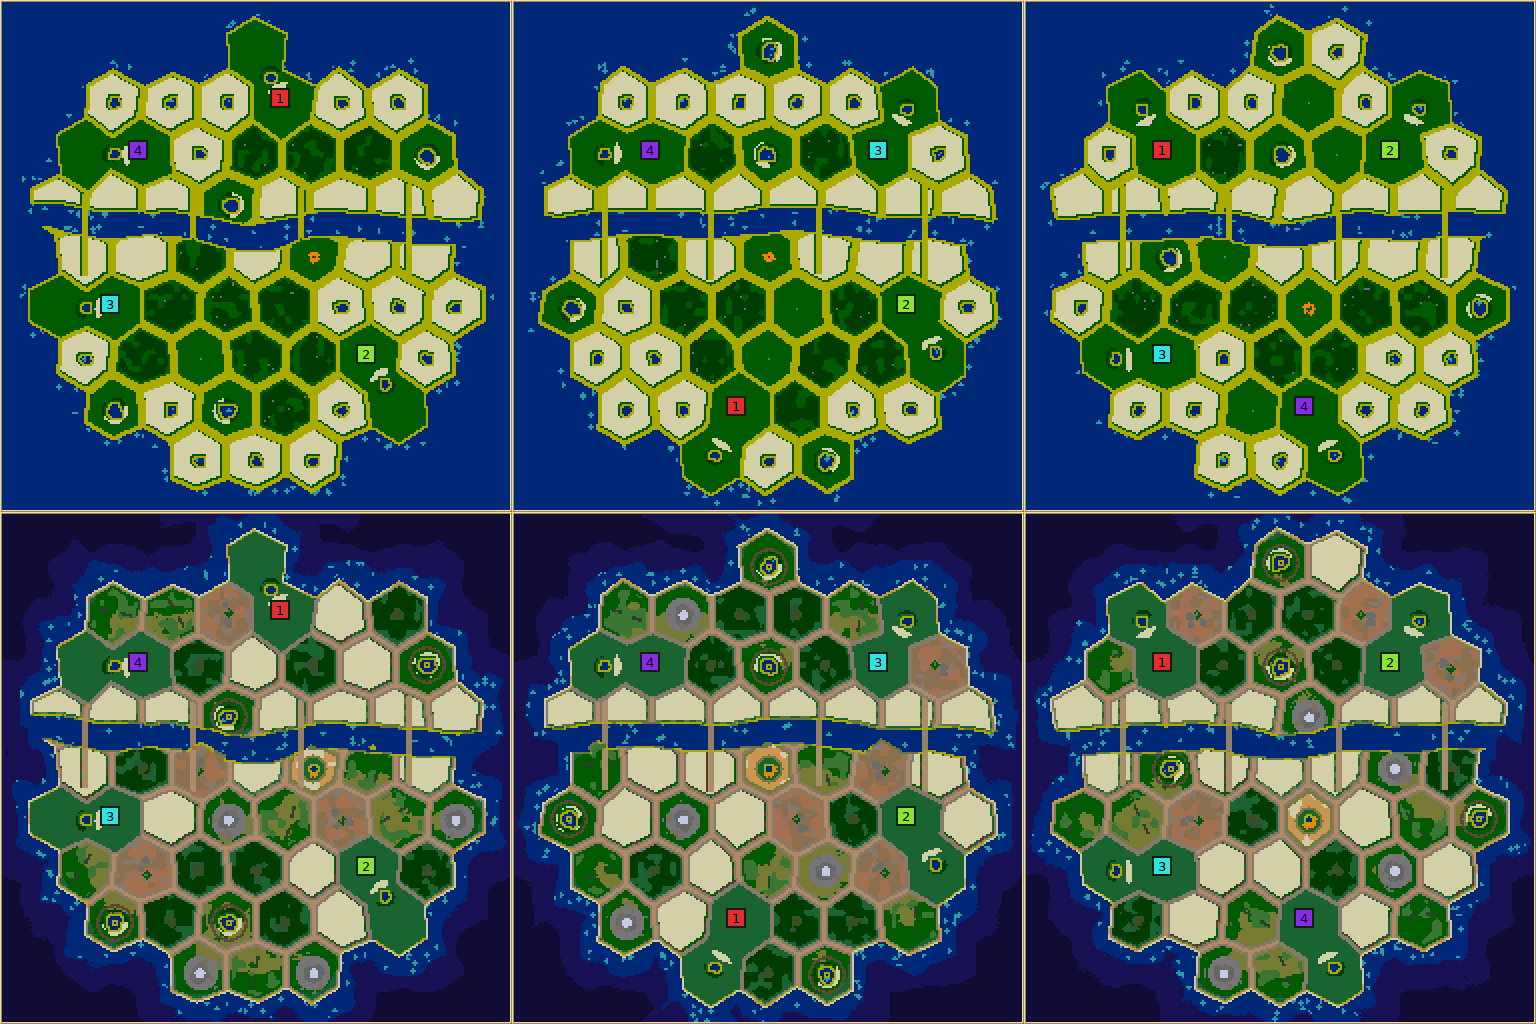
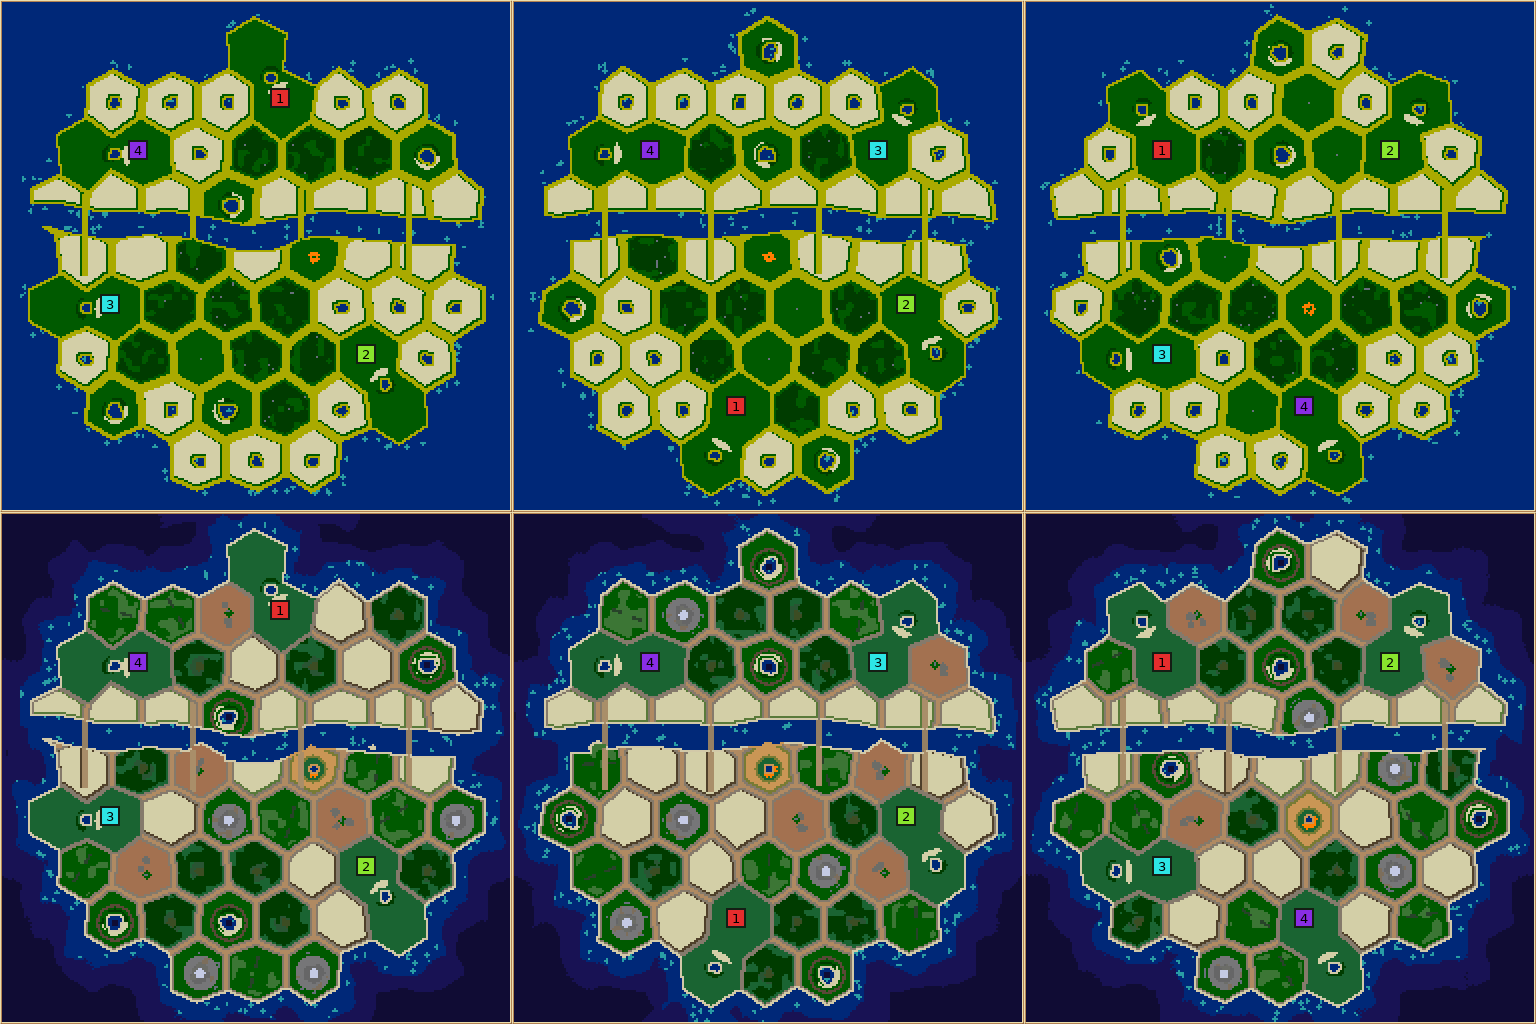
Refresh Honeycomb isle revision 5 evidence after simplifying the looks

diff --git a/rotation.md b/rotation.md
@@ -13,7 +13,18 @@ Each AI plays every seat once (four games per revision). Worker births per seat.
 
 Total births: 622
 
-## Revision 5 (final)
+## Revision 5 (final: simplified looks)
+
+| Seat | game r0 | r1 | r2 | r3 | total |
+|---|---|---|---|---|---|
+| 0 | nicowar 36 | cortex 9 | cabino 37 | maxima 109 | 191 |
+| 1 | cortex 15 | cabino 43 | maxima 52 | nicowar 41 | 151 |
+| 2 | cabino 23 | maxima 111 | nicowar 45 | cortex 16 | 195 |
+| 3 | maxima 163 | nicowar 59 | cortex 18 | cabino 25 | 265 |
+
+Total births: 802
+
+## Revision 5 (earlier: furrowed fields)
 
 | Seat | game r0 | r1 | r2 | r3 | total |
 |---|---|---|---|---|---|
